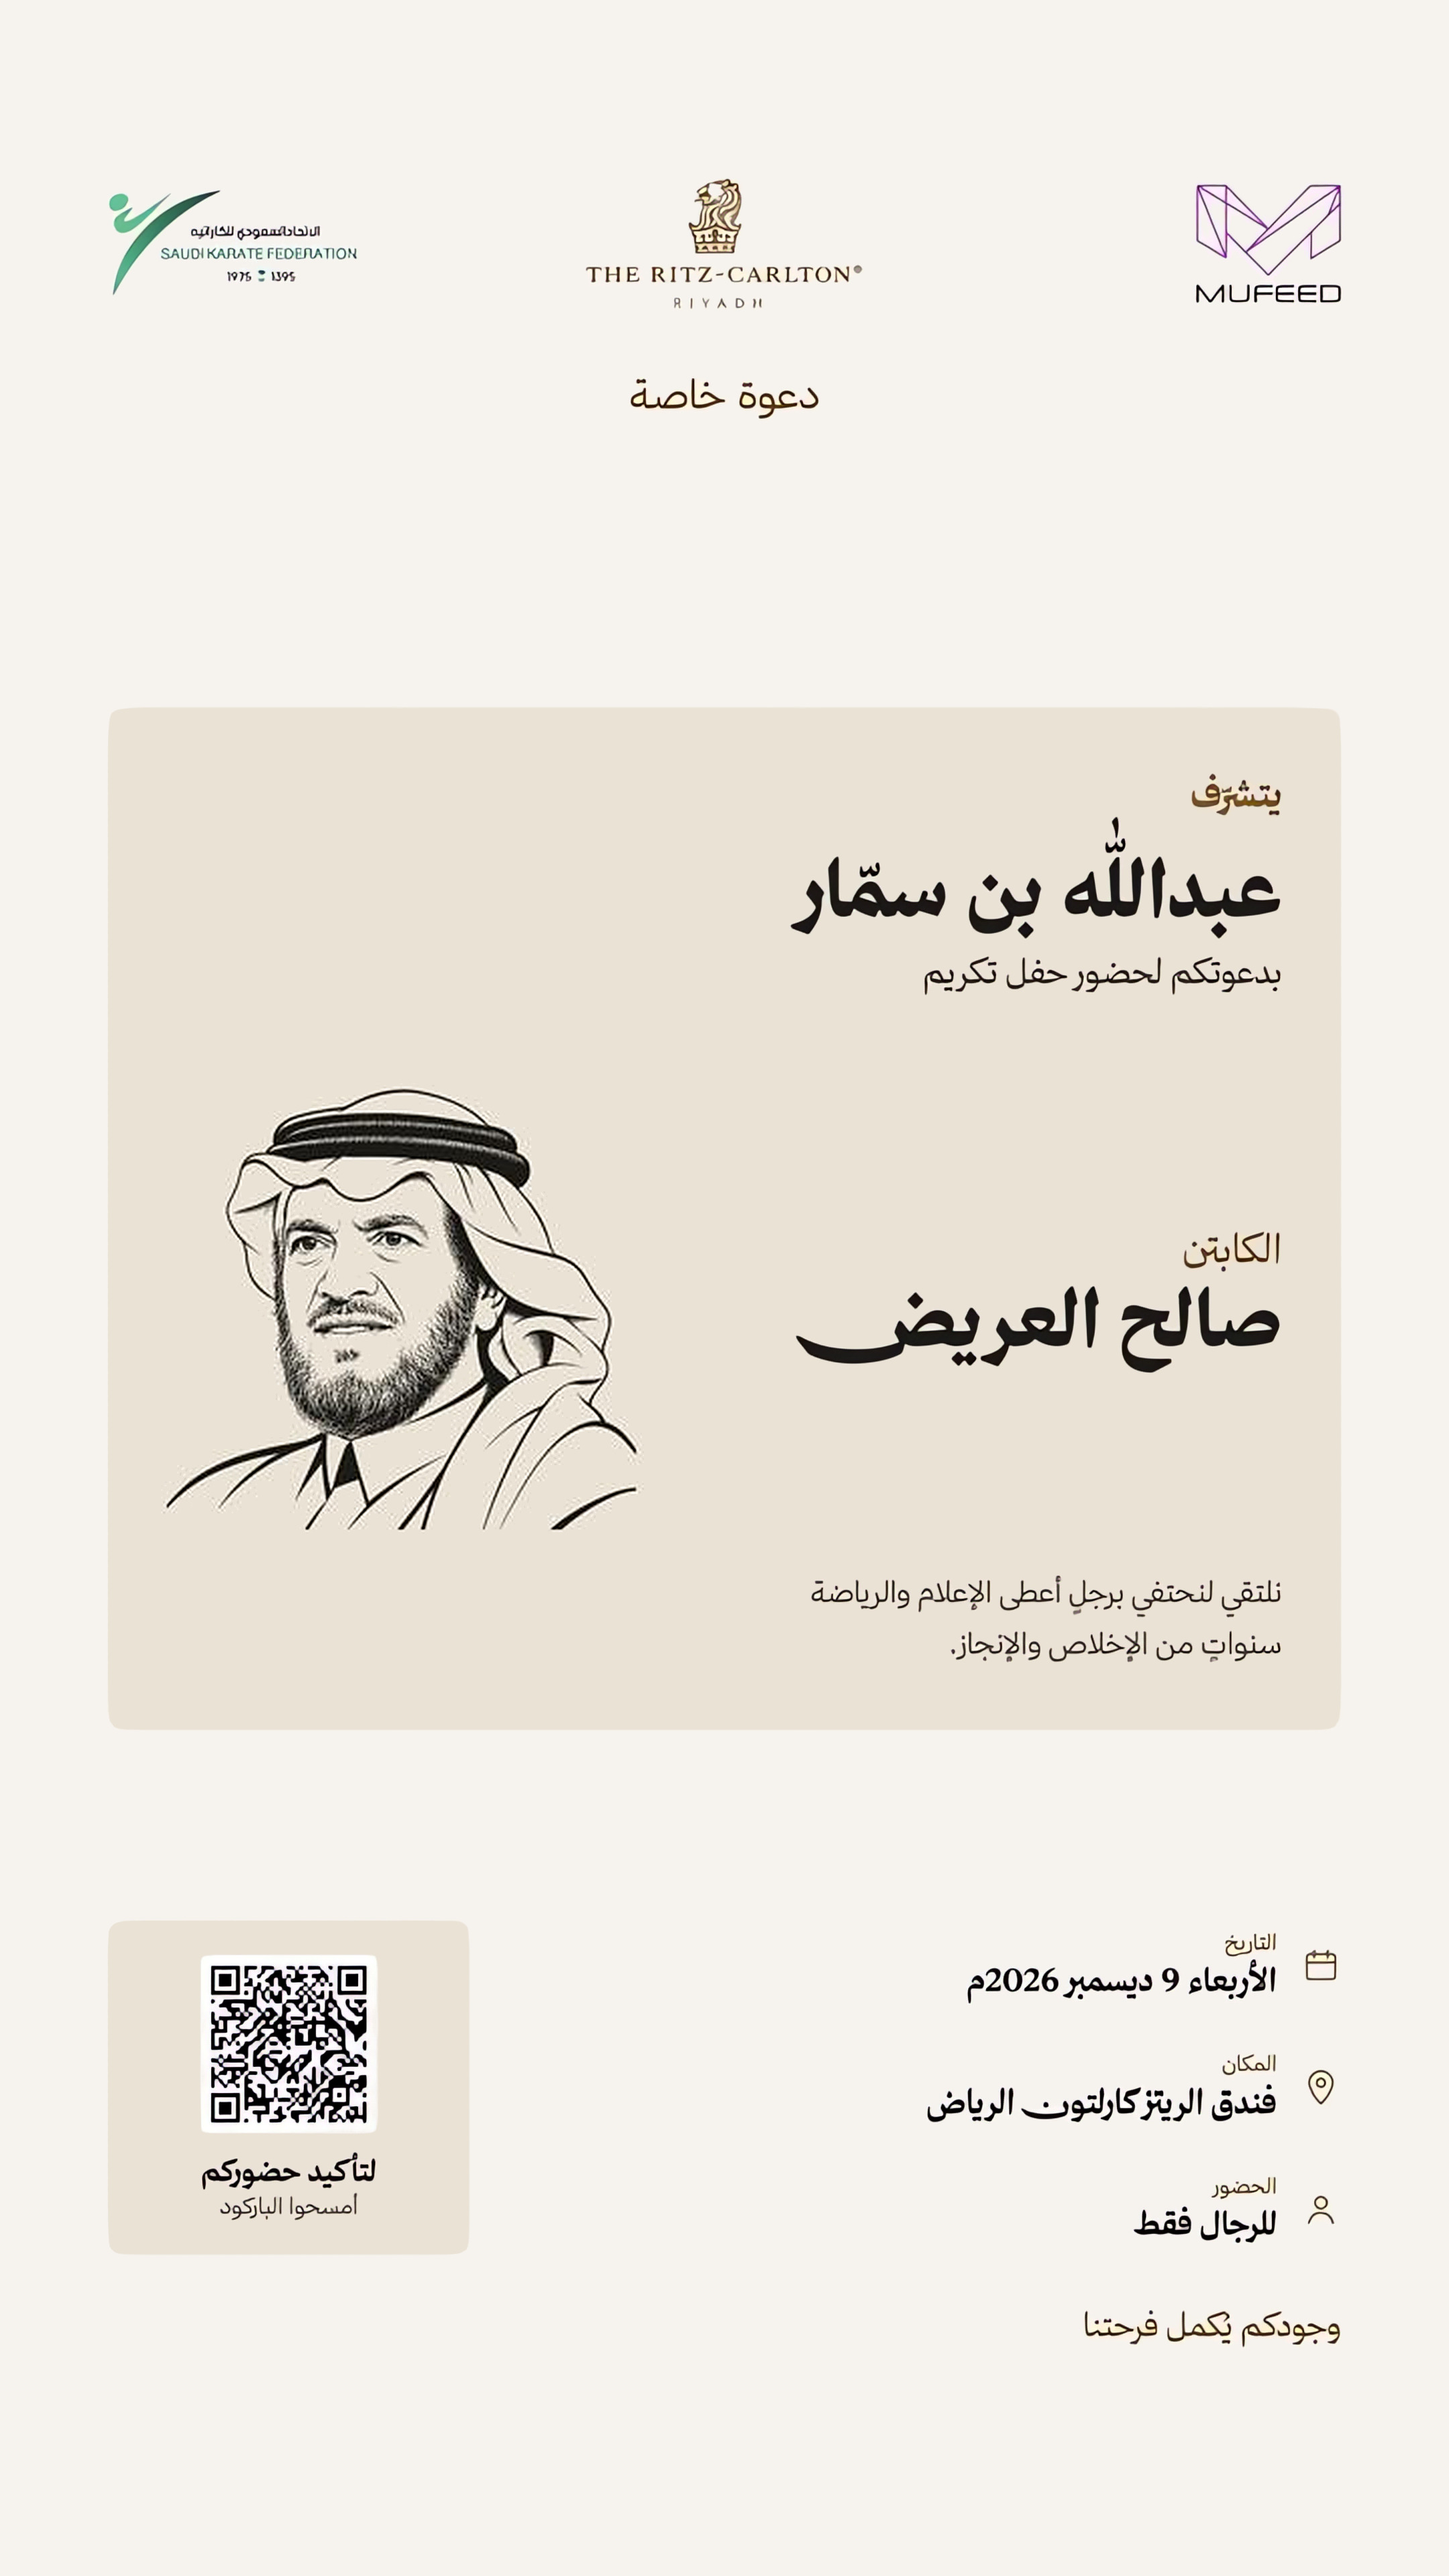
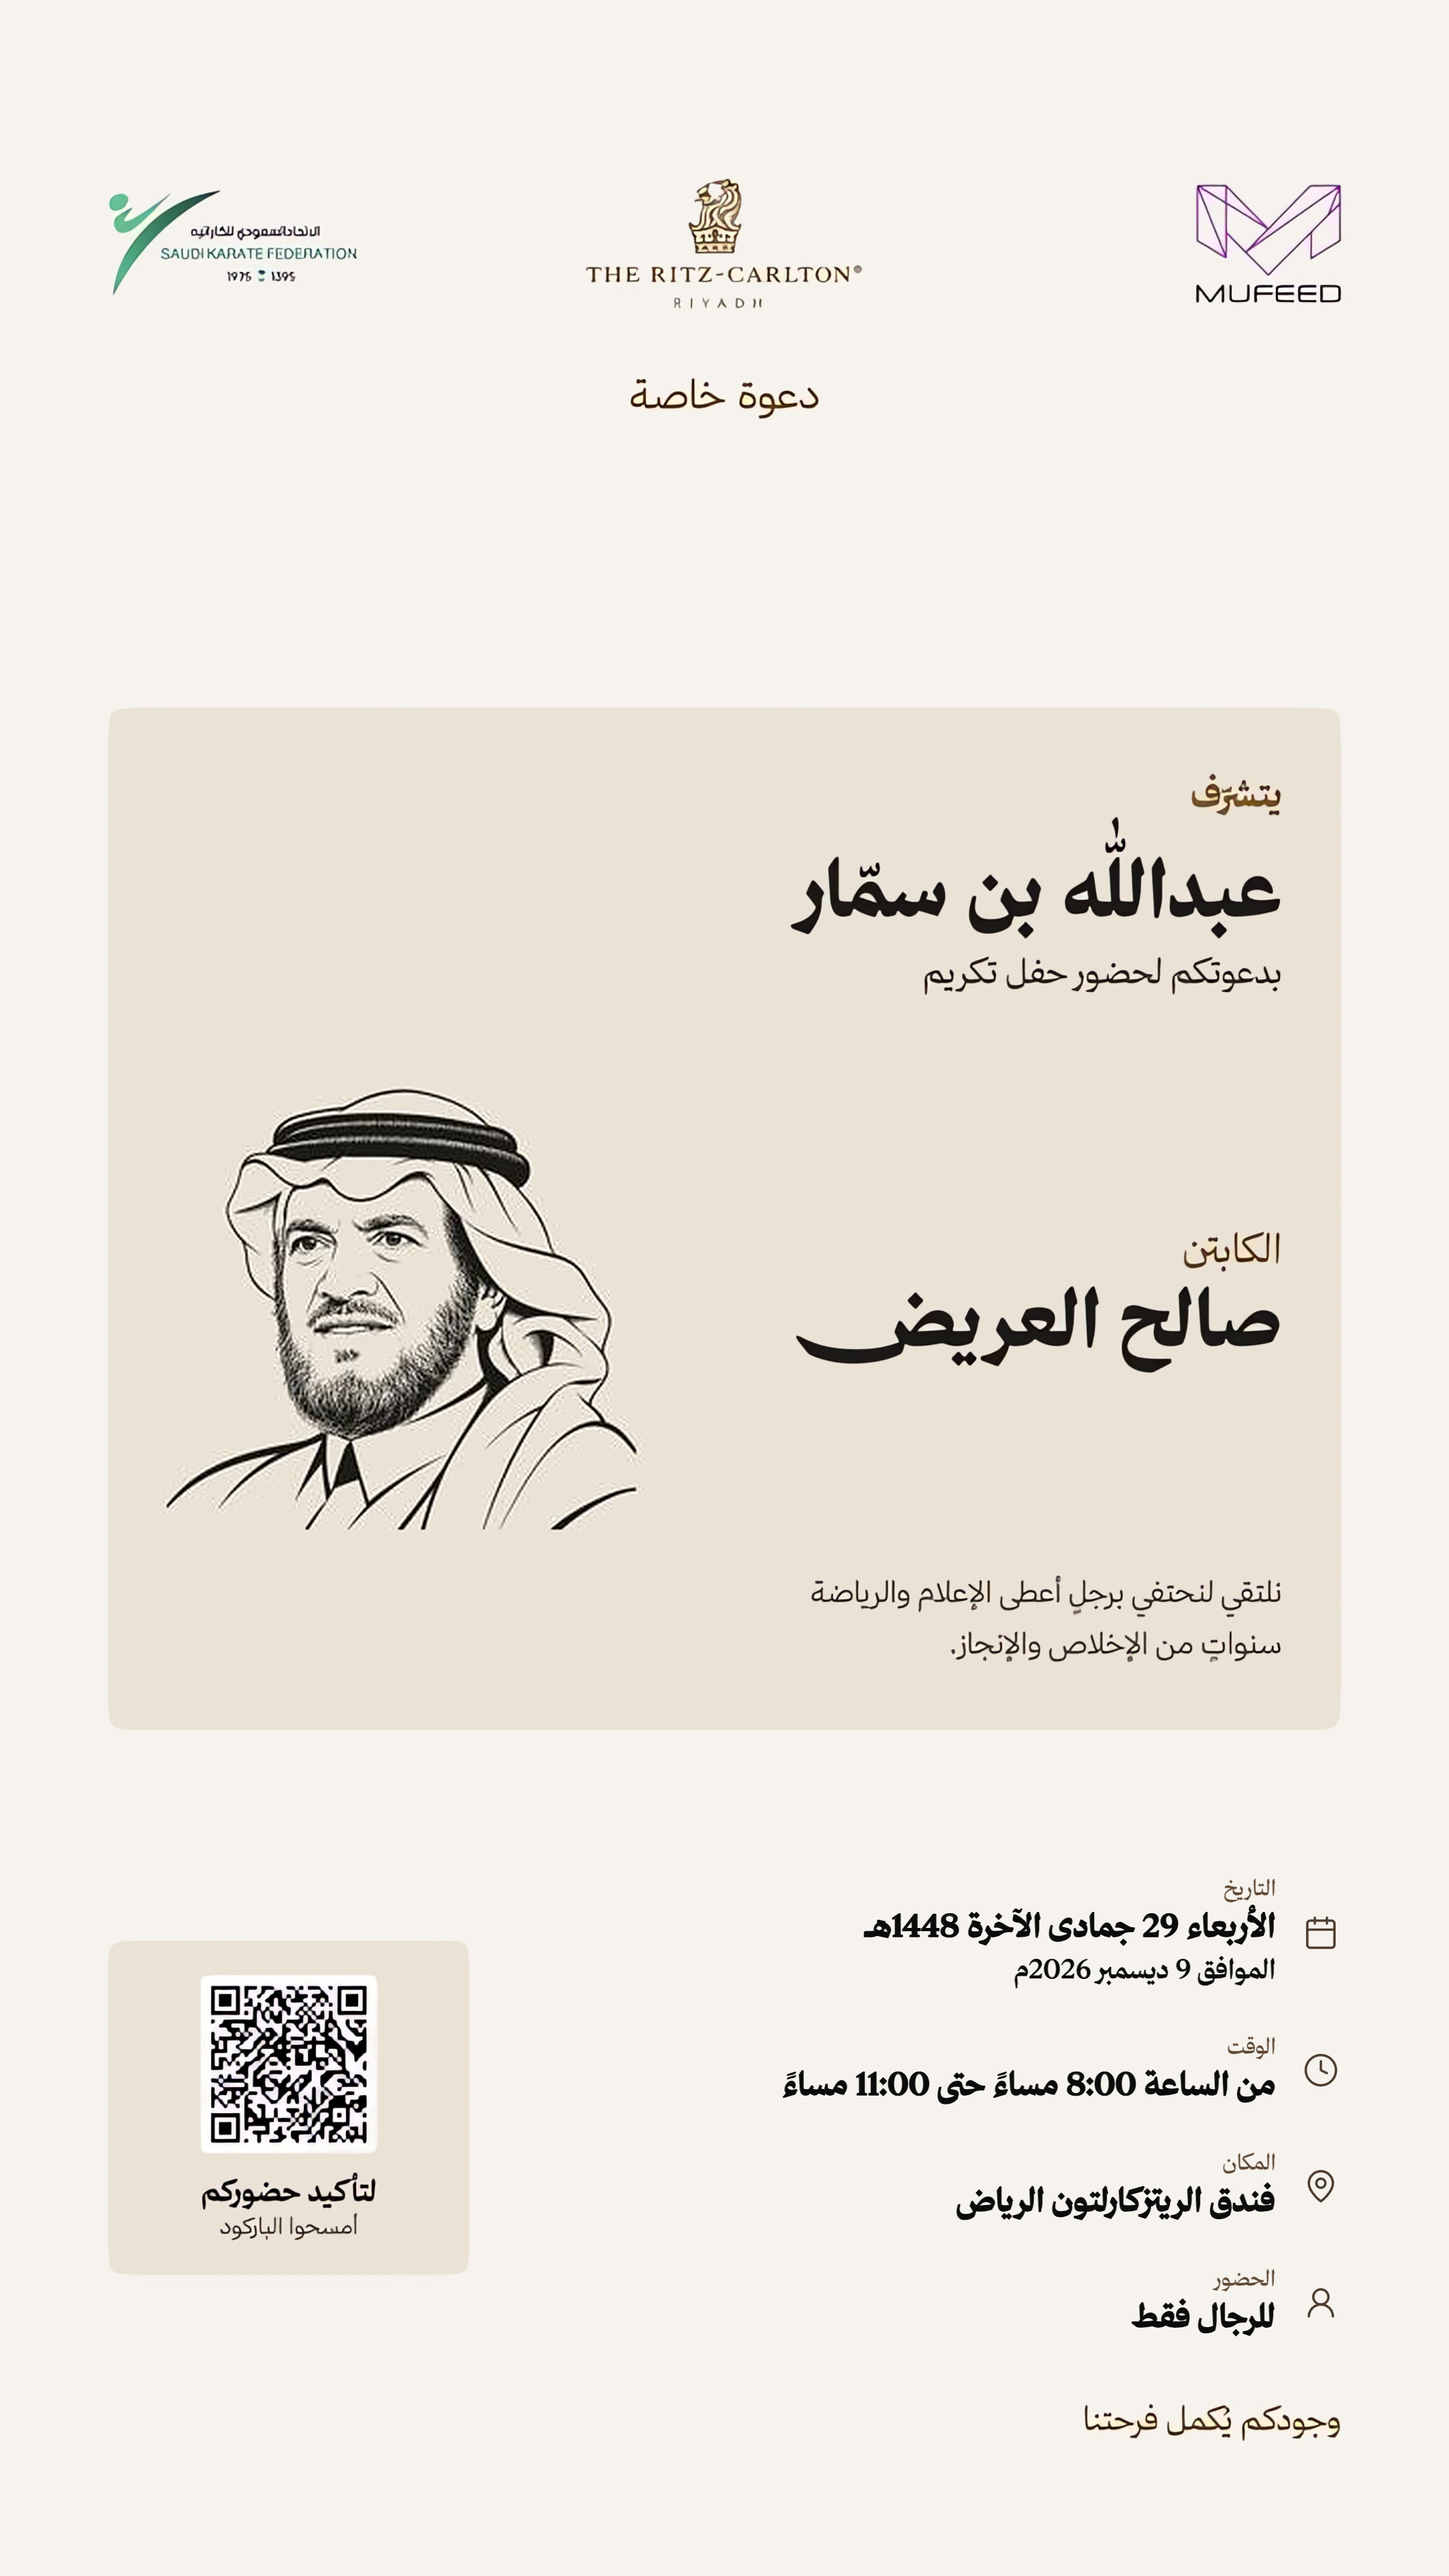
إضافة التاريخ الهجري ووقت الحفل

Changed region(s): [[0.5894, 0.7188, 0.9306, 0.9062], [0.062, 0.7188, 0.3102, 0.9062], [0.7755, 0.9375, 0.9306, 0.9688]]

diff --git a/index.html b/index.html
@@ -85,7 +85,7 @@ function build(n){
   doc.setProperties({title:n,subject:'دعوة خاصة — حفل تكريم الكابتن صالح العريض'});
   doc.addImage(url,'JPEG',0,0,540,960,undefined,'FAST');
   // QR + «لتأكيد حضوركم» area (2160px image = 540pt, 4px per pt)
-  doc.link(40,715,135,125,{url:RSVP});
+  doc.link(40,723,135,125,{url:RSVP});
   const blob=doc.output('blob');
   const fn=fileName(n);
   cache={name:n,file:new File([blob],fn,{type:'application/pdf'})};
